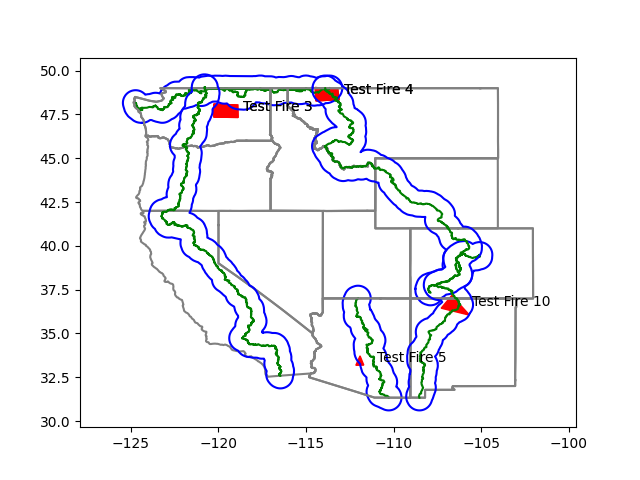
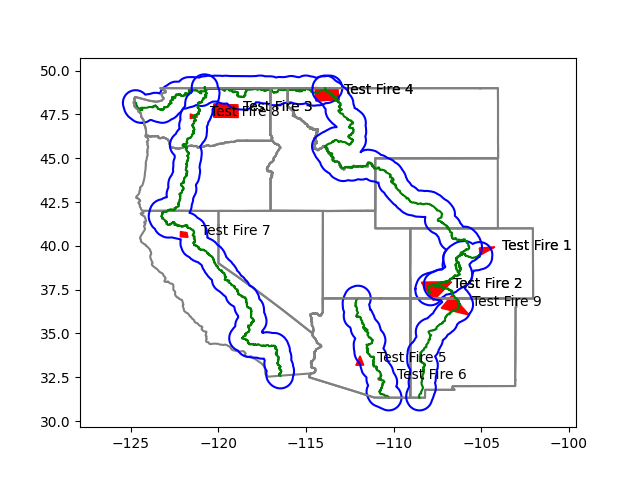
all tests passing

diff --git a/firetracker_test.py b/firetracker_test.py
@@ -28,8 +28,8 @@ class FireUnitTesting(unittest.TestCase):
 
     test_fire_coords = [
     #CT
-        [[[ -107.460916, 38.070289], [ -107.556031, 38.070289], [ -107.556031, 38.135239], [ -107.460916, 38.135239]]],
-        [[[ -106.330612, 39.673335], [ -106.338165, 39.485990], [ -106.051834, 39.466909], [ -106.066940, 39.689188]]],
+        [[[-105.063198, 39.478121], [-105.104768, 39.872541], [-104.224489, 39.935749]]],
+        [[[-108.411868, 37.916402], [-107.731821, 36.890021], [-106.704195, 37.940243]]],
     #PNT
         [[[-120.264561, 48.098639], [-120.264561, 47.348513], [-118.880284, 47.329900], [-118.902256, 48.039908]]],
         [[[-114.477539, 49.038410], [-114.435321, 48.271664], [-113.113007, 48.349559], [-113.192346, 48.941153]]],
@@ -40,7 +40,6 @@ class FireUnitTesting(unittest.TestCase):
         [[[-122.173511, 40.819048], [-122.178234, 40.513852], [-121.740926, 40.490152], [-121.798541, 40.756833]]],
         [[[-121.607023, 47.532033], [-121.610801, 47.265432], [-121.193327, 47.356368]]],
     #CDT
-        [[[ -108.067945, 45.055377],[-108.130315, 44.006080],[-106.443914, 44.057421],[-106.471379, 45.051626]]],
         [[[ -107.289151, 36.443293],[-106.684903, 37.168985],[-105.668668, 36.044569]]]
     ]
 
@@ -53,15 +52,15 @@ class FireUnitTesting(unittest.TestCase):
         fire['attributes']['irwin_IncidentName'] += f' {i + 1}'
         test_fires.append(fire)
     
-    # def test_mile_markers(self) -> None:
-    #     for trail in self.trails:
-    #         tracker = TestFireTracker(trail, self.test_fires)
-    #         mile_markers = list(tracker.trail_mile_markers.values())
-    #         try:
-    #             self.assertTrue(mile_markers[0] < 1)
-    #             print(f'{trail} test_mile_markers PASSED: first mile marker expected size\n\n{mile_markers[0]} mi. to {mile_markers[len(mile_markers) - 1]} mi.')
-    #         except AssertionError:
-    #             print(f'{trail} test_mile_markers FAILED: first mile marker larger than expected size\n\n{mile_markers[0]} mi. to {mile_markers[len(mile_markers) - 1]} mi.')
+    def test_mile_markers(self) -> None:
+        for trail in self.trails:
+            tracker = TestFireTracker(trail, self.test_fires)
+            mile_markers = list(tracker.trail_mile_markers.values())
+            try:
+                self.assertTrue(mile_markers[0] < 1)
+                print(f'{trail} test_mile_markers PASSED: first mile marker expected size\n\n{mile_markers[0]} mi. to {mile_markers[len(mile_markers) - 1]} mi.')
+            except AssertionError:
+                print(f'{trail} test_mile_markers FAILED: first mile marker larger than expected size\n\n{mile_markers[0]} mi. to {mile_markers[len(mile_markers) - 1]} mi.')
 
     def test_add_fires(self) -> None:
         for trail in self.trails:
@@ -73,33 +72,33 @@ class FireUnitTesting(unittest.TestCase):
             except AssertionError:
                 print(f'{trail} test_add_fires FAILED: close fires was empty.')
     
-    # def test_fire_not_crossing_trail(self) -> None:
-    #     for trail in self.trails:
-    #         tracker = TestFireTracker(trail, self.test_fires)
-    #         try:
-    #             self.assertTrue(len(tracker.close_fires) > len(tracker.fires_crossing_trail))
-    #             print(f'{trail} test_fire_not_crossing_trail PASSED: at least one fire close but not crossing trail.')
-    #         except AssertionError:
-    #             print(f'{trail} test_fire_not_crossing_trail FAILED: no fires not crossing trail.')
+    def test_fire_not_crossing_trail(self) -> None:
+        for trail in self.trails:
+            tracker = TestFireTracker(trail, self.test_fires)
+            try:
+                self.assertTrue(len(tracker.close_fires) > len(tracker.fires_crossing_trail))
+                print(f'{trail} test_fire_not_crossing_trail PASSED: at least one fire close but not crossing trail.')
+            except AssertionError:
+                print(f'{trail} test_fire_not_crossing_trail FAILED: no fires not crossing trail.')
 
-    # def test_fire_crossing_trail(self) -> None:
-    #     for trail in self.trails:
-    #         tracker = TestFireTracker(trail, self.test_fires)
-    #         try:
-    #             self.assertTrue(len(tracker.fires_crossing_trail) > 0)
-    #             print(f'{trail} test_fire_crossing_trail PASSED: at least one fire was crossing trail.')
-    #         except AssertionError:
-    #             print(f'{trail} test_fire_crossing_trail FAILED: no fires were crossing trail.')
+    def test_fire_crossing_trail(self) -> None:
+        for trail in self.trails:
+            tracker = TestFireTracker(trail, self.test_fires)
+            try:
+                self.assertTrue(len(tracker.fires_crossing_trail) > 0)
+                print(f'{trail} test_fire_crossing_trail PASSED: at least one fire was crossing trail.')
+            except AssertionError:
+                print(f'{trail} test_fire_crossing_trail FAILED: no fires were crossing trail.')
     
-    # def test_sms(self) -> None:
-    #     for trail in self.trails:
-    #         tracker = TestFireTracker(trail, self.test_fires)
-    #         try:
-    #             self.assertTrue(tracker.create_SMS())
-    #             print(f'{trail} test_sms PASSED: sms created')
-    #             print(tracker.text)
-    #         except AssertionError:
-    #             print(f'{trail} test_sms FAILED: sms not created')
+    def test_sms(self) -> None:
+        for trail in self.trails:
+            tracker = TestFireTracker(trail, self.test_fires)
+            try:
+                self.assertTrue(tracker.create_SMS())
+                print(f'{trail} test_sms PASSED: sms created')
+                print(tracker.text)
+            except AssertionError:
+                print(f'{trail} test_sms FAILED: sms not created')
 
 if __name__ == '__main__':
     unittest.main()

diff --git a/firetracker.py b/firetracker.py
@@ -46,7 +46,6 @@ class FireTracker():
         self.trail_mile_markers = self.get_mile_markers(self.trail_linestring)
         self.states = self.trail_list[trail]['states']
         self.state_border_polygons = [self.get_border(state) for state in self.states]
-        # self.state_fires = self.get_state_fires(self.state_border_polygons)
         self.close_fires = self.get_close_fires(self.trail_buffer)
         self.fires_crossing_trail = self.get_fires_crossing_trail(self.trail_linestring, self.close_fires)
         self.closest_points = self.get_closest_points(self.trail_linestring, self.close_fires)
@@ -151,35 +150,20 @@ class FireTracker():
     def is_in_state(self, coord: List[float], borders: List[Polygon]) -> bool:
         p = Point(coord[1], coord[0])
         return any(border.contains(p) for border in borders)
-
-    # def get_state_fires(self, borders: List[Polygon]) -> List[object]:
-    #     current_fires = self.call_fire_api()
-    #     state_fires = []
-    #     for fire in current_fires:
-    #         coords = self.switch_xy(fire['geometry']['rings'][0])
-    #         for coord in coords:
-    #             if self.is_in_state(coord, borders):
-    #                 state_fires.append({
-    #                     'attributes': {
-    #                         'name': fire['attributes']['irwin_IncidentName'],
-    #                         'acres': fire['attributes']['poly_GISAcres'],
-    #                         'containment': fire['attributes']['irwin_PercentContained']
-    #                     },
-    #                     'shape': Polygon(coords)
-    #                 })
-    #                 break
-    #     return state_fires
     
     def get_close_fires(self, buffer: Polygon) -> List[object]:
         current_fires = self.call_fire_api()
         close_fires = []
         for fire in current_fires:
             fire_shape = Polygon(self.switch_xy(fire['geometry']['rings'][0]))
-            if fire_shape.overlaps(buffer):
+            if fire_shape.overlaps(buffer) or fire_shape.intersects(buffer):
                 for state_border in self.state_border_polygons:
+                    #####
                     if fire_shape.overlaps(state_border['border']):
                         state = state_border['state']
-                    else: state = 'non U.S.'
+                    else: 
+                        state = 'non U.S.'
+                    #####
                 close_fires.append({
                     'attributes': {
                         'name': fire['attributes']['irwin_IncidentName'],
